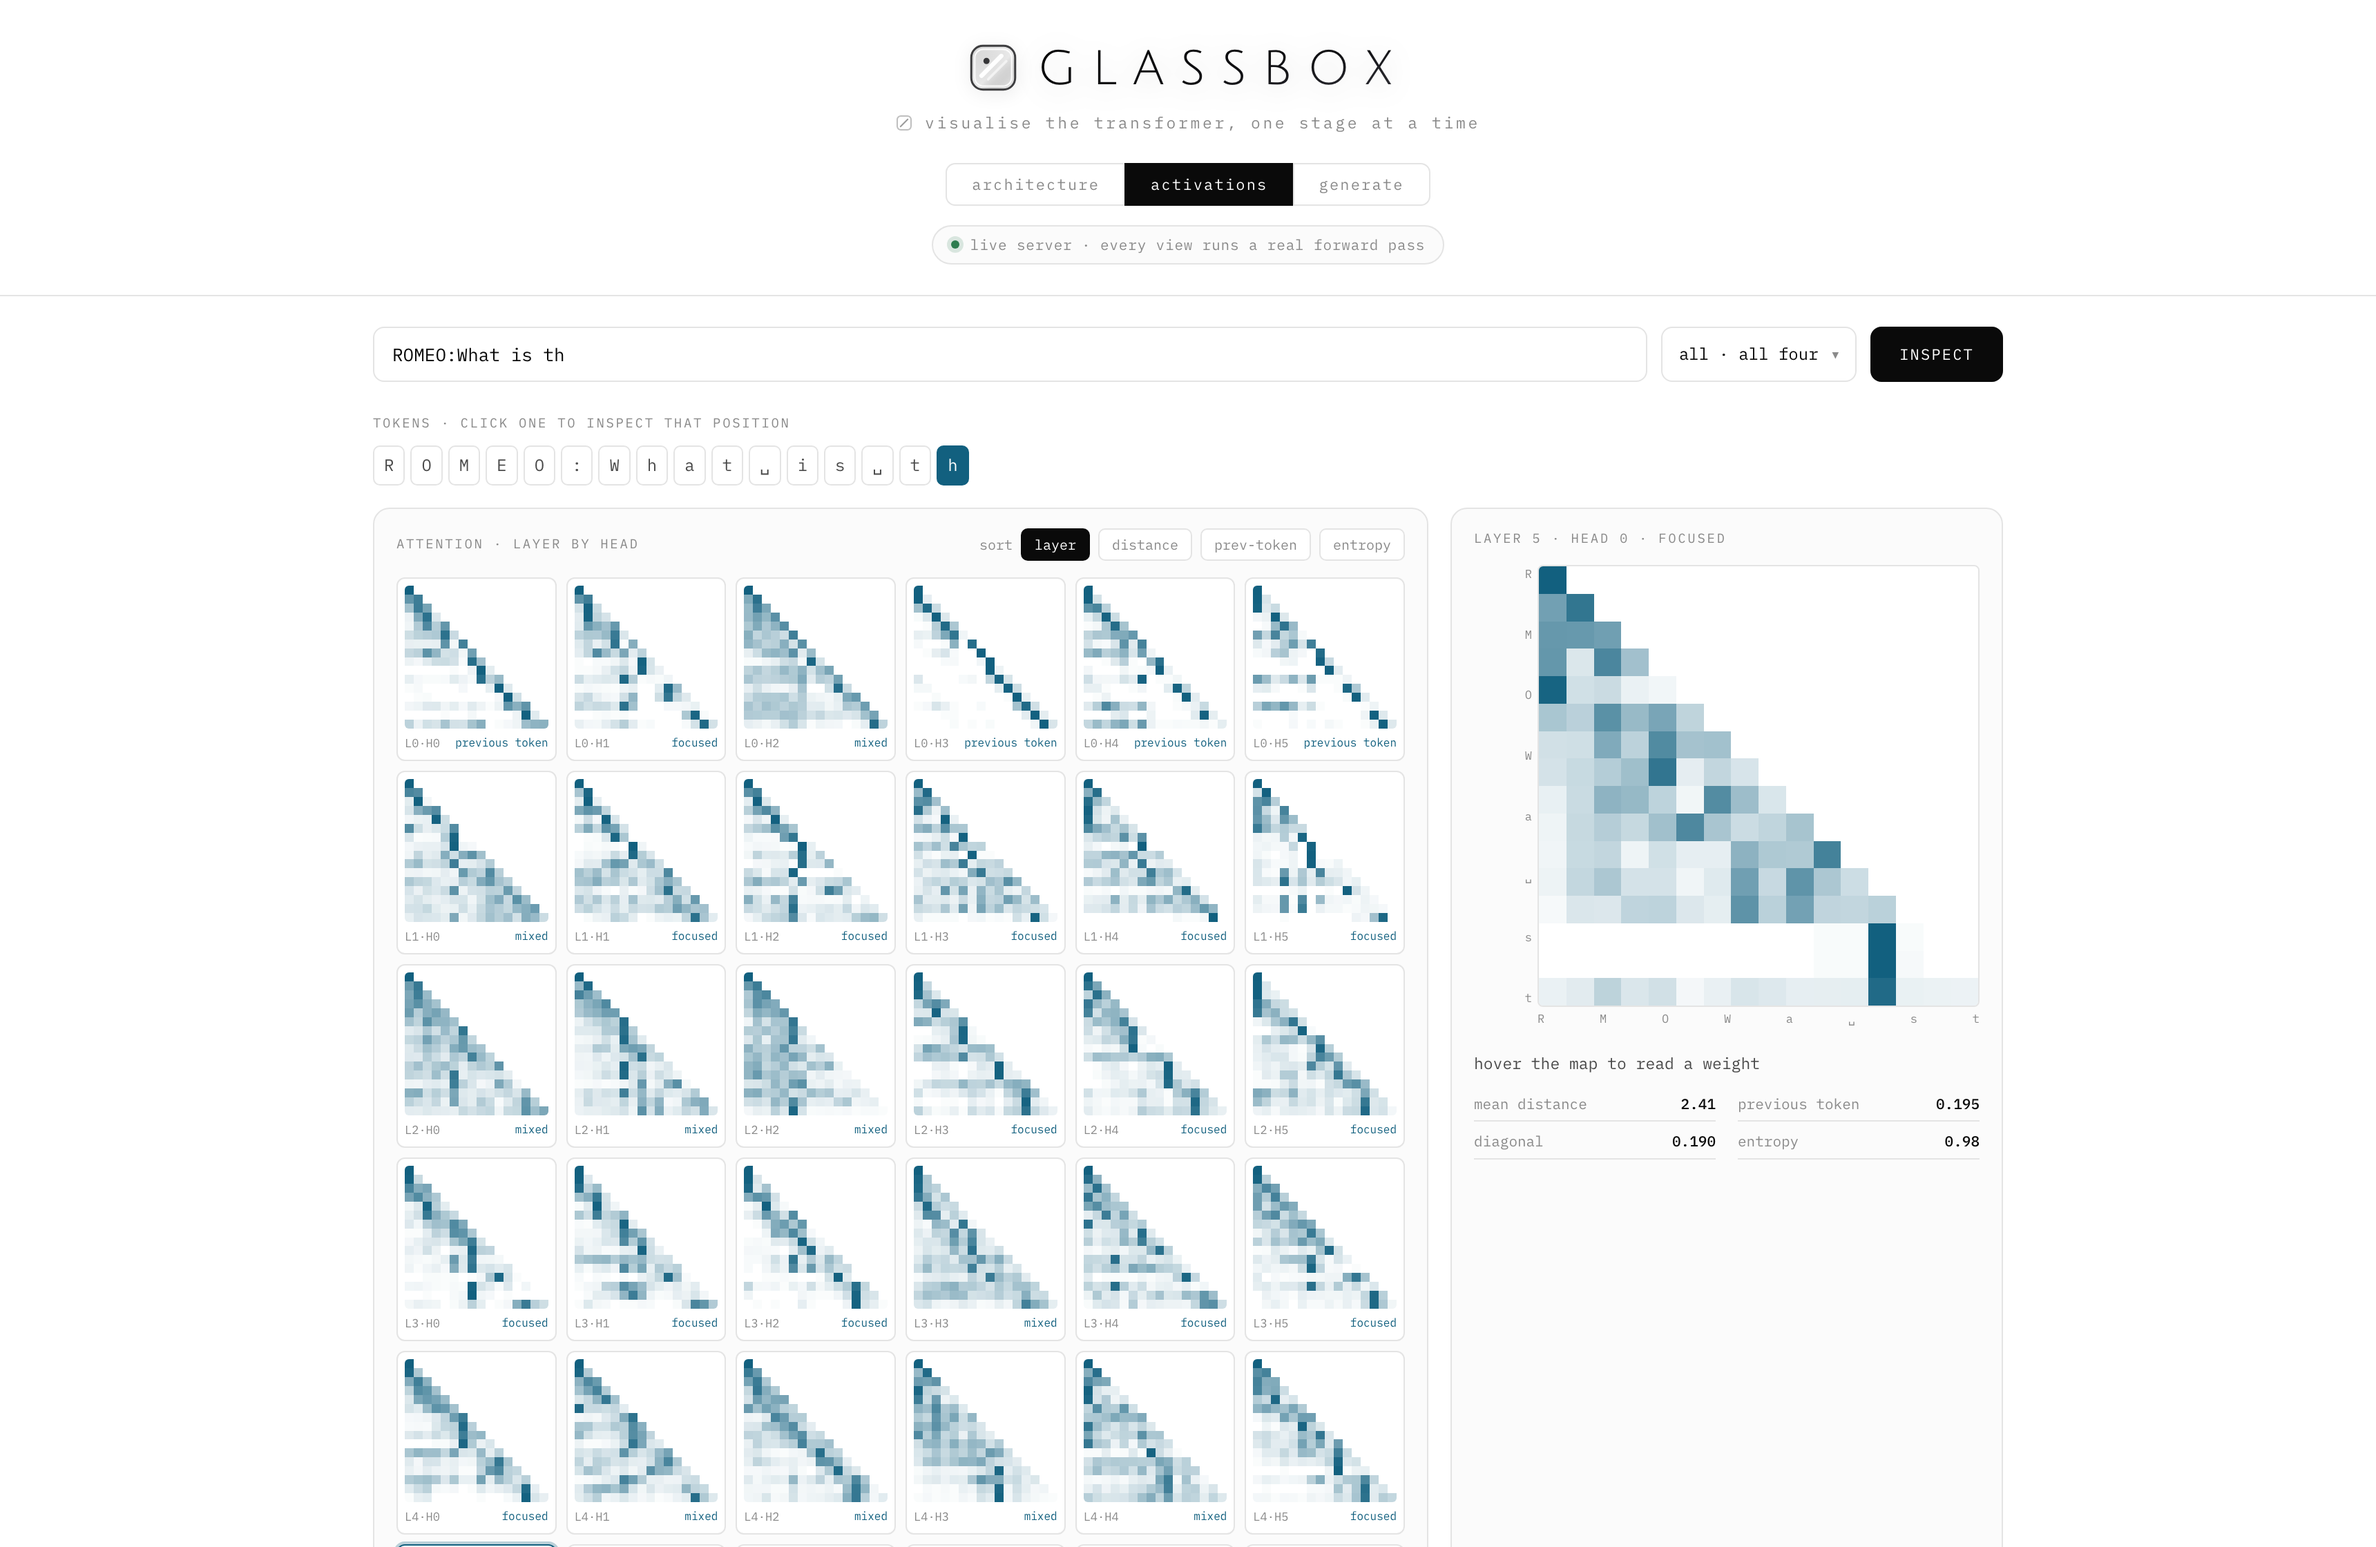
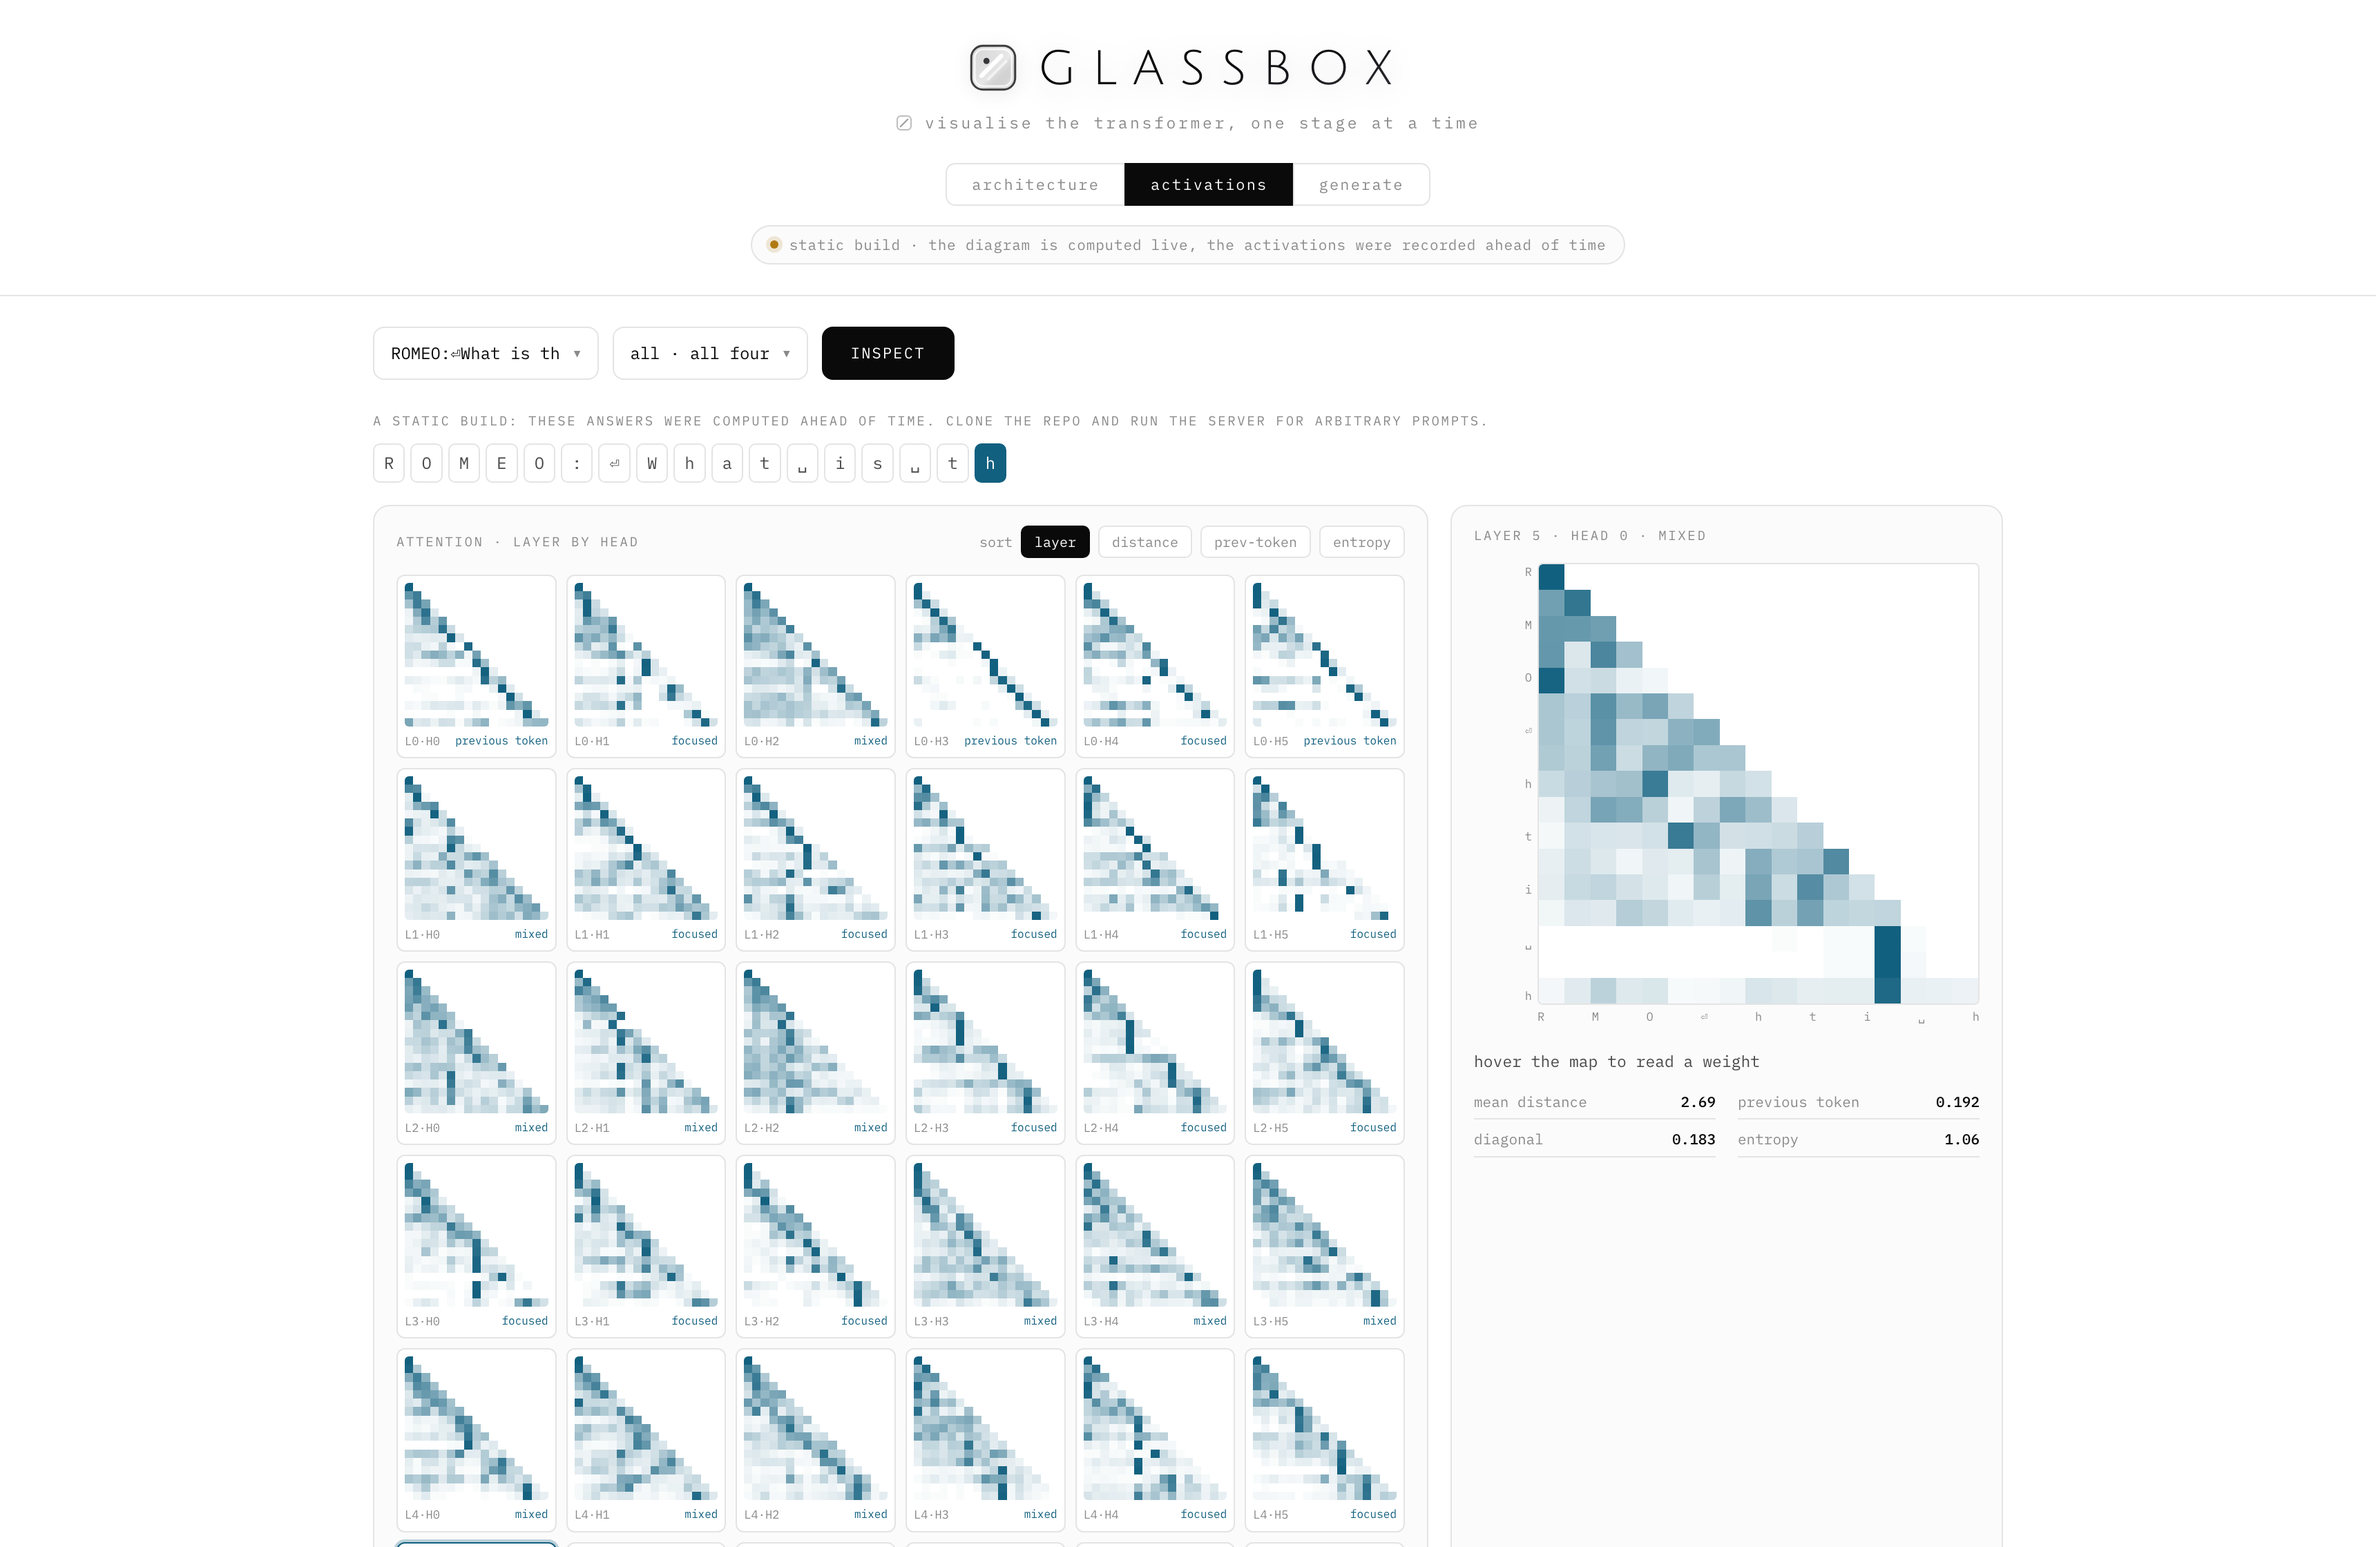
doc: rebuild the hosted page and screenshots

diff --git a/docs/index.html b/docs/index.html
@@ -1184,7 +1184,6 @@ function measureBar() {
 addEventListener("resize", measureBar);
 addEventListener("load", measureBar);
 
-boot();
 
 /* ===================================================== activations & generate
 
@@ -1557,6 +1556,12 @@ function bindViews(models, dflt) {
     renderGrid();
   });
 }
+
+/* Called last, after every declaration above it. It used to sit mid-file and
+   worked only because boot() awaited a fetch before touching anything declared
+   below — an accident that held on the server and broke the moment the static
+   build answered from memory with no await in the way. */
+boot();
 
 </script>
 </body>
